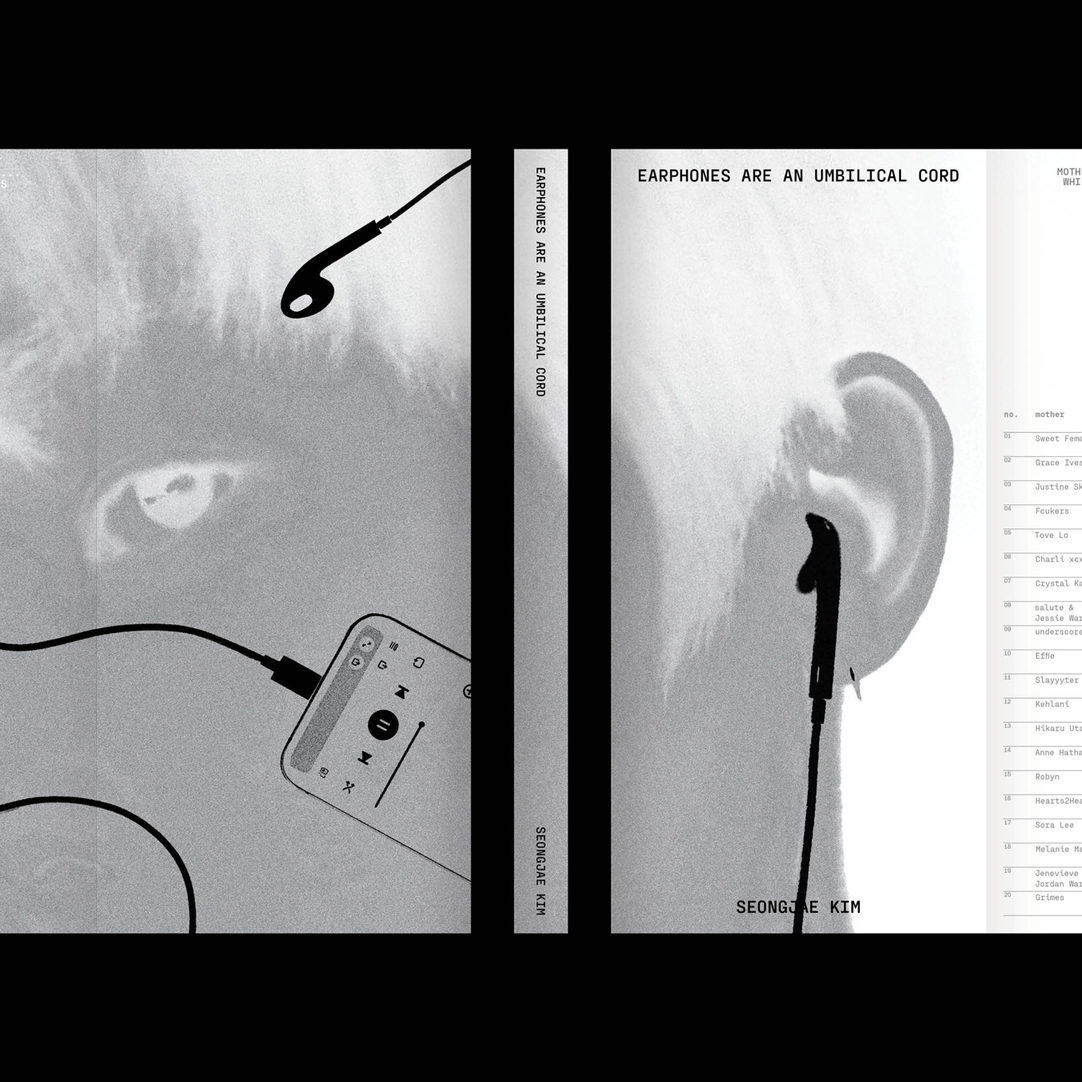
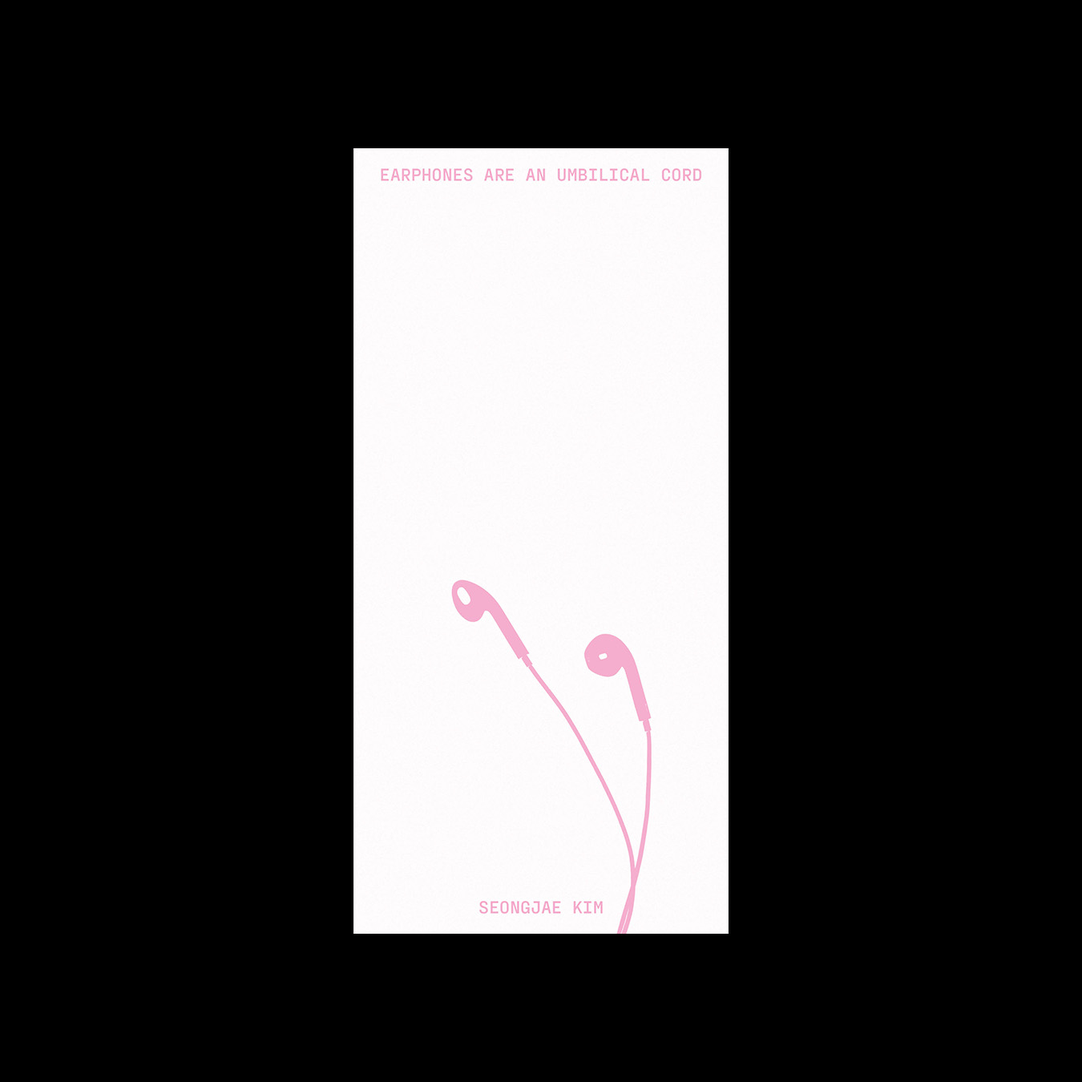
Content updates: remove 김시현 video link, fix 조서영 English name, replace 김성재 gallery photo + thumbnail

diff --git a/js/landing.js b/js/landing.js
@@ -18,7 +18,7 @@ const DATA = [
   { name:"백단하", A:"사거리", B:"갤러리", thumb:"p07.jpg", poster:"danha_poster.jpg", en:"Danha Baek", koTitle:"사거리는 갤러리다", enSentence:"The crossroads is a gallery", insta:"@badookdol", descKo:"와우산로와 홍익로가 교차하는 사거리를 하나의 갤러리로 재해석한다. 이동을 멈추고 무언가 응시하게 되는 신호 대기 시간을 작품 감상의 순간으로 바라보고, 화이트 큐브의 문법을 차용해 일상의 풍경을 관람 대상으로 전환한다. 관람자는 현실의 사거리와 가상의 갤러리가 교차하는 영상 속에서 자신의 실루엣을 마주하며, 신호를 기다리는 행위가 전시를 관람하는 태도와 크게 다르지 않음을 경험한다.", descEn:"This work reimagines the intersection of Wausan-ro and Hongik-ro as a gallery. It turns the brief pause at a traffic light into a moment of looking, borrowing the language of the white cube to frame an everyday street scene as an exhibition. In the video, the real crossroads and a virtual gallery alternate at regular intervals, allowing viewers to encounter their own silhouettes and experience waiting as a form of viewing." , videoUrl:"https://www.youtube.com/watch?v=e1wry2fPNIo" , images:["assets/images/06_danha/01.jpg", "assets/images/06_danha/02.jpg", "assets/images/06_danha/03.jpg", "assets/images/06_danha/04.jpg"] },
   { name:"이린", A:"슬립오버", B:"고해성사", thumb:"p08.jpg", poster:"lynn_poster.jpg", en:"Lynn Lee", koTitle:"슬립오버는 고해성사다", enSentence:"Sleepover is confession", insta:"@llnnnyl", descKo:"일상적 놀이 문화인 슬립오버와 종교적 의례인 고해성사가 갖는 행위적 유사성에 주목해, 비밀을 고백하는 공간을 재구성한다. 작업은 어린 시절 이불을 엮어 만들던 임시적 은신처의 형태를 빌린다. 구조물 내부에는 어둡고 낮은 조도를 가진 조명을 배치해 외부와 내부 공간을 분리했으며, 이는 사적인 대화와 고백이 이루어지도록 한다. 중앙에 설치된 고해소의 가림막을 연상시키는 얇은 천은 드러냄과 숨김, 친밀감과 거리감 사이의 긴장을 시각화한다. 또한 소녀들의 웃음소리와 성당의 종소리를 병치한 사운드를 공간에 삽입해, 두 가지 분위기가 공존하는 양가적 감각을 형성했다. 이를 통해 작업은 어린 시절의 놀이 공간과 종교적 고백의 장소가 모두 비밀을 공유함으로써 관계를 형성하는 구조를 가진다는 점을 탐색한다.", descEn:"Noting the behavioral similarities between sleepovers—a common form of play—and the religious rite of confession, this work has reconfigured a space for confessing secrets. The work borrows the form of the makeshift hideouts we used to create by weaving blankets together as children. Inside the structure, dim lighting was installed to separate the interior from the exterior, facilitating private conversations and confessions. A thin cloth installed in the center, reminiscent of the screen in a confessional booth, visualizes the tension between revelation and concealment, intimacy and distance. Furthermore, a soundscape juxtaposing the laughter of young girls with the tolling of church bells is incorporated into the space, creating an ambivalent atmosphere where two distinct moods coexist. Through this, the work explores how both childhood play spaces and places of religious confession share a structure in which relationships are formed through the sharing of secrets." , images:["assets/images/07_rin/01.jpg", "assets/images/07_rin/02.jpg", "assets/images/07_rin/03.jpg", "assets/images/07_rin/04.jpg", "assets/images/07_rin/05.jpg"] },
   { name:"황철호", A:"커팅매트", B:"해시계", thumb:"p09.jpg", poster:"cheolho_poster.jpg", en:"Cheolho Hwang", koTitle:"커팅매트는 해시계다", enSentence:"Cutting mat is a sundial", insta:"@s_fe_ho", descKo:"우리 주변엔 다양한 그리드가 있지만, 정확한 수치가 담긴 건 커팅매트가 거의 유일하다. 이 프로젝트는 그 재단용 그리드를 다른 의미로 바라본다. 태양과 그림자로 시간을 읽는 해시계처럼, 커팅매트 위의 선들도 그림자를 통해 시간을 보여줄 수 있다는 상상에서 출발한다.", descEn:"There are many kinds of grids around us, but the cutting mat is almost the only one marked with precise measurements. This project reinterprets that utilitarian grid through a different lens. Inspired by the way a sundial tells time through sunlight and shadow, it imagines that the lines on a cutting mat, too, can reveal time through the movement of shadows." , images:["assets/images/08_cheolho/01.jpg", "assets/images/08_cheolho/02.jpg", "assets/images/08_cheolho/03.jpg", "assets/images/08_cheolho/04.jpg"] },
-  { name:"조서영", A:"세탁소", B:"화원", thumb:"p10.jpg", poster:"seoyoung_poster.png", en:"Seoyoung Jo", koTitle:"세탁소는 화원(花園)이다", enSentence:"A laundry is a flower shop", insta:"@choseoyoungcho", descKo:"세탁소 스팀의 고소한 향기, 은은한 섬유유연제 향기, 보글보글 거품, 알록달록 봉제실 더미, 정성스레 세탁되어 다려진 후 비닐에 포장된 옷다발들. 조랭이 세탁소이자 화원은 옷다발 포장 및 배달서비스를 진행한다.", descEn:"The toasty aroma of laundry steam, the subtle scent of fabric softener, bubbles, piles of colorful sewing threads, and bundles of clothes; meticulously washed, pressed, and wrapped. Joreng Laundry / Flowershop offers Laundry bouquet packaging and delivery services." , images:["assets/images/09_seoyoung/01.jpg", "assets/images/09_seoyoung/02.jpg", "assets/images/09_seoyoung/03.jpg", "assets/images/09_seoyoung/04.jpg", "assets/images/09_seoyoung/05.jpg"] },
+  { name:"조서영", A:"세탁소", B:"화원", thumb:"p10.jpg", poster:"seoyoung_poster.png", en:"Seoyoung Cho", koTitle:"세탁소는 화원(花園)이다", enSentence:"A laundry is a flower shop", insta:"@choseoyoungcho", descKo:"세탁소 스팀의 고소한 향기, 은은한 섬유유연제 향기, 보글보글 거품, 알록달록 봉제실 더미, 정성스레 세탁되어 다려진 후 비닐에 포장된 옷다발들. 조랭이 세탁소이자 화원은 옷다발 포장 및 배달서비스를 진행한다.", descEn:"The toasty aroma of laundry steam, the subtle scent of fabric softener, bubbles, piles of colorful sewing threads, and bundles of clothes; meticulously washed, pressed, and wrapped. Joreng Laundry / Flowershop offers Laundry bouquet packaging and delivery services." , images:["assets/images/09_seoyoung/01.jpg", "assets/images/09_seoyoung/02.jpg", "assets/images/09_seoyoung/03.jpg", "assets/images/09_seoyoung/04.jpg", "assets/images/09_seoyoung/05.jpg"] },
   { name:"정지은", A:"스텔레토 힐", B:"은닉무기", thumb:"p11.jpg", poster:"jieun_poster.png", en:"Jieun Jung", koTitle:"스틸레토 힐은 은닉무기다", enSentence:"Stiletto Heels Are Concealed Weapons", insta:"@stopsilver02", descKo:"스틸레토 힐은 상대에게 매력을 어필하기 위한 패션 아이템으로 받아들여지지만, 그 뾰족한 형태와 가느다란 굽, 또각거리는 소리는 은밀하게 강한 공격성과 긴장감을 내포하고 있다. 이 힐은 여성성을 수동적인 매력의 대상으로 남길 것인지, 혹은 능동적인 선택과 공격으로 전환할 것인지에 대한 은밀한 초대장을 건넨다.", descEn:"Stiletto heels are commonly accepted as fashion items used to attract others, yet their pointed form, narrow structure, and sharp clicking sound quietly carry a strong sense of aggression and tension. They present a subtle invitation: whether to remain as passive objects of attraction or to shift toward active choice and attack." , videoUrl:"https://youtu.be/XjEOv2aOZJU" , images:["assets/images/10_jieun/01.jpg", "assets/images/10_jieun/02.jpg", "assets/images/10_jieun/03.jpg"] },
   { name:"김규빈", A:"라바콘", B:"만병통치약", thumb:"p12.jpg", poster:"gyubin_poster.png", en:"Gyubin Kim", koTitle:"라바콘은 만병통치약이다", enSentence:"Trust the Cone", insta:"@streetpessimist", descKo:"싱크홀, 균열, 함몰, 침수, 사고 현장, 공사 중 건물 주변, 가스 누출, 상하수도 공사, 전선 공사, 나무 식재, 조경 공사, 고장난 자전거, 미세먼지, 두통, 치통, 풀리지 않는 과제, 폭력과 불안과 공포 치료에 탁월합니다.", descEn:"Highly effective in treating sinkholes, cracks, subsidence, flooding, accident sites, areas surrounding buildings under construction, gas leaks, water and sewage construction, electrical wiring work, tree planting, landscaping construction, broken bicycles, fine dust, headaches, toothaches, unsolvable assignments, and violence, anxiety, and fear." , videoUrl:"https://vimeo.com/1189596398?share=copy&fl=sv&fe=ci" , images:["assets/images/11_gyubin/01.jpg", "assets/images/11_gyubin/02.jpg", "assets/images/11_gyubin/03.jpg", "assets/images/11_gyubin/04.jpg", "assets/images/11_gyubin/05.jpg"] },
   { name:"강다현", A:"만두", B:"암살자", thumb:"p13.jpg", poster:"dahyun_poster.png", en:"Dahyun Kang", koTitle:"만두는 암살자다", enSentence:"The Dumpling Is an Assassin", insta:"@true1xver", descKo:"입안에서 터지는 뜨거운 육즙, 딱딱한 표면, 예상치 못한 더부룩함과 갈증. 얇은 피로 위장한 만두는 내부를 감춘 채, 당신의 구강과 위장으로 은밀하게 침투한다. 찌기, 굽기, 튀기기 등의 수련을 거친 만두들은 각기 다른 발동 기술을 익히며, 끝내 완전한 암살자적 주체로 거듭난다.", descEn:"Bursting hot broth, hardened surfaces, unexpected bloating and thirst. Concealed beneath thin skins, dumplings secretly infiltrate the body while hiding what lies within. Having endured the trials of steaming, grilling, and frying, they master their own methods of attack and ultimately emerge as fully formed assassins." , images:["assets/images/12_dahyun/01.jpg", "assets/images/12_dahyun/02.jpg", "assets/images/12_dahyun/03.jpg", "assets/images/12_dahyun/04.jpg", "assets/images/12_dahyun/05.jpg"] },
@@ -27,13 +27,13 @@ const DATA = [
   { name:"정우현", A:"지도", B:"시", thumb:"p16.jpg", poster:"woohyun_poster.jpg", en:"Woohyun Jung", koTitle:"지도는 시다", enSentence:"Maps are Poetry", insta:"@faux_hyun", descKo:"지도는 지구 표면의 일부나 전체의 상태를 약속된 기호나 문자를 사용하여 일정한 비율로 줄여 평면상에 나타낸 것이다. 시는 마음속에 떠오르는 느낌을 운율이 있는 언어로 압축하여 표현한 글이다. 지도의 기호는 시에서의 언어 압축과 동일하다. 지도는 기호 체계를 이용하고, 시는 언어를 기호처럼 이용한다. 그렇기에 지도와 시는 함축적이고 상징적이다. 함축적이고 상징적이라는 말은 하나의 단위에 다양한 요소를 압축했다는 의미이다. 이로 인해 지도와 시의 기호와 언어 단위는 밀도가 높아지지만, 모든 요소를 수용할 수는 없기에 불완전하다.", descEn:"A map is a planar representation of the Earth's surface, in whole or in part, scaled down to a specific ratio using designated symbols and characters. A poem expresses the emotions of the mind by compressing them into rhythmic language. The symbols of a map are identical to the linguistic compression of a poem. A map relies on a system of symbols, while a poem uses language itself as a symbol. Therefore, both maps and poems are inherently connotative and symbolic. Being connotative and symbolic means that diverse elements are condensed into a single unit. Consequently, the symbolic and linguistic units of maps and poems achieve a high degree of density, yet they remain fundamentally incomplete because they cannot encompass every single element." , images:["assets/images/15_woohyun/01.jpg", "assets/images/15_woohyun/02.jpg", "assets/images/15_woohyun/03.jpg", "assets/images/15_woohyun/04.jpg", "assets/images/15_woohyun/05.jpg"] },
   { name:"김주현", A:"스케이트보드", B:"스캐너", thumb:"p17.jpg", poster:"juhyun_poster.png", en:"Juhyun Kim", koTitle:"스케이트보드는 스캐너이다", enSentence:"Skateboard is a Scanner", insta:"@3_jhn_3", descKo:"길 위의 단차와 요철, 마찰과 흔들림은 도로가 지닌 정보가 되며, 보드는 길 위를 주행하며 이를 몸의 움직임으로 변환한다. 『Skateboard is a Scanner』는 19개의 바닥 이미지와 스캔된 기록을 통해, 보드를 타고 길을 읽는 감각을 전달한다.", descEn:"The differences in level, uneven textures, friction, and vibrations of the road become information held by its surface, and as the board moves across it, it translates them into bodily movement. 『Skateboard is a Scanner』 conveys the sensation of reading the road through a board, through 19 images of ground surfaces and scanned records." , images:["assets/images/16_juhyun/01.jpg", "assets/images/16_juhyun/02.jpg", "assets/images/16_juhyun/03.jpg", "assets/images/16_juhyun/04.jpg", "assets/images/16_juhyun/05.jpg"] },
   { name:"양정원", A:"눈", B:"포장지", thumb:"p18.jpg", poster:"jungwon_poster.jpg", en:"Jungwon Yang", koTitle:"눈은 포장지다", enSentence:"SNOW IS WRAPPING PAPER", insta:"@moeraek", descKo:"눈은 세상을 선물처럼 포장한다. 패키지 디자인은 대상을 보호하는 기능을 넘어 첫인상과 인식을 형성한다. 재질과 질감, 여는 방식까지 포함된 경험은 대상에 대한 기대를 감정으로 이어지게 한다. 본 카탈로그는 자연이 시공한 가장 완전한 포장 사례를 기록한 도면집이다. 모든 시공은 사전 협의 없이 이루어졌으며, 일정 이후 사라진 뒤 매년 다른 방식으로 다시 포장된다.", descEn:"Snow wraps the world like a gift. Packaging design goes beyond protection, shaping first impressions and perception. Material, texture, and even the way something opens become part of the experience, turning expectation into emotion. This catalog documents nature's most complete examples of packaging. Every construction was carried out without prior agreement, disappears after a certain period of time, and returns each year wrapped in a different way." , images:["assets/images/17_jungwon/01.jpg", "assets/images/17_jungwon/02.jpg", "assets/images/17_jungwon/03.jpg", "assets/images/17_jungwon/04.jpg", "assets/images/17_jungwon/05.jpg"] },
-  { name:"김성재", A:"이어폰", B:"탯줄", thumb:"p19.jpg", poster:"seongjae_poster.jpg", en:"Seongjae Kim", koTitle:"이어폰은 탯줄이다", enSentence:"EARPHONES ARE AN UMBILICAL CORD", insta:"@infth", descKo:"여성 아티스트는 어머니다. 청취자는 태아다. 음악은 영양분이다. 이어폰은 탯줄이다.", descEn:"FEMALE ARTISTS ARE MOTHERS. LISTENERS ARE FETUSES. MUSIC IS NOURISHMENT. EARPHONES ARE AN UMBILICAL CORD." , images:["assets/images/18_seongjae/1.jpg", "assets/images/18_seongjae/2.jpg", "assets/images/18_seongjae/3.jpg", "assets/images/18_seongjae/4.jpg", "assets/images/18_seongjae/5.jpg", "assets/images/18_seongjae/6.gif"] },
+  { name:"김성재", A:"이어폰", B:"탯줄", thumb:"p19.jpg", poster:"seongjae_poster.jpg", en:"Seongjae Kim", koTitle:"이어폰은 탯줄이다", enSentence:"EARPHONES ARE AN UMBILICAL CORD", insta:"@infth", descKo:"여성 아티스트는 어머니다. 청취자는 태아다. 음악은 영양분이다. 이어폰은 탯줄이다.", descEn:"FEMALE ARTISTS ARE MOTHERS. LISTENERS ARE FETUSES. MUSIC IS NOURISHMENT. EARPHONES ARE AN UMBILICAL CORD." , images:["assets/images/18_seongjae/1.jpg", "assets/images/18_seongjae/6.gif"] },
   { name:"현지우", A:"약봉투", B:"어드밴트 캘린더", thumb:"p20.jpg", poster:"jiwoo_poster.jpg", en:"Jiwoo Hyun", koTitle:"약봉투는 어드밴트 캘린더다", enSentence:"A Medicine Packet is an Advent Calendar", insta:"@youngcha.xyz", descKo:"매일 정해진 시간에 약봉투를 뜯으며 회복을 기다린 적이 있는가. 이 작품은 그 기다림의 형태를 빌려, 세계 각지에서 치유와 회복을 상징해 온 기호들을 24개의 약봉투 안에 담은 어드벤트 캘린더다. 약 대신 부적을, 처방 대신 믿음을 복용해보자.", descEn:"Here is a medicine packet. Have you ever torn it open at a set time each day, waiting to get better? This work borrows that form of waiting — an advent calendar of 24 medicine packets, each holding a symbol of healing and recovery from around the world. Instead of medicine, a talisman. Instead of a prescription, belief." , images:["assets/images/19_jiwoo/01.png", "assets/images/19_jiwoo/02.png", "assets/images/19_jiwoo/03.png", "assets/images/19_jiwoo/04.png", "assets/images/19_jiwoo/05.png"] },
   { name:"오성건", A:"책", B:"죄수", thumb:"p21.jpg", poster:"sunggun_poster.jpg", en:"Sunggun Oh", koTitle:"책은 죄수다", enSentence:"Book as Prisoner", insta:"@goshitomi", descKo:"책 대출신청은 죄수와의 면회신청이다. 〈책은 죄수다〉는 책이 책장에 꽂혀있는 모습이 마치 죄수와 같다는 발견에서 출발한다. 이것은 도서관의 '도서 대출' 시스템과 교도소의 '죄수 접견' 시스템이 구조적으로 동일하다는 통찰로 이어진다. 작품 안에서 도서의 정보(메타데이터)는 죄수의 정보로 치환된다. 관람자가 평소처럼 책을 검색하고 빌리는 과정을 밟는 동안, 분할된 화면 반댓편에서는 낯선 죄수와의 면회 신청이 동시에 이루어진다. 이를 통해 우리가 지식을 소비하고 관리하는 '보관소(Archive)'라는 시스템이 사실은 정보를 가두고 통제하는 또 다른 '감옥'은 아닌지 질문을 던진다.", descEn:"Lending a book is visiting the prisoner. It began with the observation that books standing on a bookshelf closely resemble prisoners in cells. This leads to the insight that a library's book lending system shares the exact same structural design as a prison's visitation system. Within the work, a book's metadata is substituted with a prisoner's personal records. While the viewer goes through the ordinary process of searching for and borrowing a book, a request to visit an unfamiliar prisoner simultaneously takes place on the other side of a split screen. Through this, the work questions whether the \"archive\"—the very system through which we consume and manage knowledge—is in fact another form of \"prison\" that confines and controls information." , images:["assets/images/20_sunggun/01.png", "assets/images/20_sunggun/02.png", "assets/images/20_sunggun/03.png"] },
   { name:"양의열", A:"벌금 고지서", B:"러브레터", thumb:"p22.png", poster:"euiyeol_poster.png", en:"Euiyeol Yang", koTitle:"벌금 고지서는 러브레터다", enSentence:"Penalty notice of love letter", insta:"@eui.10", descKo:"예상치 못한 고지서는 마치 러브레터와 같다. 우리의 심장을 떨리게 하고, 동시에 지난 기억을 상기시켜주는 매개체가 된다. 그리고 대체로 완벽하게 잊혀지기 전에 나타나서는 우리를 당황시킨다. 이들은 희미했던 기억들을 선명하게 해주는 대신에, 우리의 기억들이 얼마나 선택적으로 미화되어왔는지 보여준다.", descEn:"Unexpected bills are like love letters. They make our hearts race, while serving as a medium that reminds us of past memories. And they usually appear right before they are completely forgotten, catching us off guard. Instead of bringing those faded memories back into focus, they reveal just how selectively romanticized our memories have been." , images:["assets/images/21_euiyeol/01.jpg", "assets/images/21_euiyeol/02.jpg", "assets/images/21_euiyeol/03.jpg", "assets/images/21_euiyeol/04.jpg", "assets/images/21_euiyeol/05.jpg"] },
   { name:"황지원", A:"마침표", B:"골", thumb:"p23.jpg", poster:"hjiwon_poster.png", en:"Jiwon Hwang", koTitle:"마침표는 골이다", enSentence:"Period is a Goal", insta:"@now_iz_", descKo:"이 시계는 물리적 흐름으로서의 시간을 계측하는 대신, 미결의 문장이 마침표와 조우하여 완결성에 이르는 찰나를 하나의 '득점(+1)'으로 환산하는 개념적 장치이다. 궤적 끝에서 공이 골망을 흔들듯, 문장의 끝에 마침표가 오는 것은 텍스트의 유예된 상태를 종결짓는 멈춤(Full Stop)인 동시에 다음 스텝을 예비하는 주기(Period)의 전환을 표상한다.", descEn:"Rather than measuring time as a physical flow, this clock is a conceptual device that translates the exact moment an unresolved sentence meets a period and achieves completion into a single 'score (+1).' Much like a ball striking the net at the end of its trajectory, the arrival of a period at the end of a sentence signifies a 'Full Stop' that resolves the text's suspended state, while simultaneously representing the transition of a 'Period' that prepares for the next step." , images:["assets/images/22_hjiwon/01.jpg", "assets/images/22_hjiwon/02.jpg", "assets/images/22_hjiwon/03.jpg", "assets/images/22_hjiwon/04.jpg"] },
   { name:"최주혁", A:"쓰레기통", B:"자유게시판", thumb:"최주혁_thumbnail.png", poster:"juhyuk_poster.jpg", en:"Juhyuk Choi", koTitle:"쓰레기통은 자유게시판이다", enSentence:"Bin = Board", insta:"@onemoogy", descKo:"이곳에는 무엇이든 자유롭게 두고 갈 수 있다. 쓰레기통도 그렇고, 자유게시판도 그렇다. 웬만한 게시판에는 넣을 수조차 없는 것을 쓰레기통에는 넣을 수 있으니, 쓰레기통이야말로 진정한 자유게시판이 아닐까?", descEn:"Anything can be freely left here. The same goes for trash bins and bulletin boards. If something cannot even be placed on most bulletin boards but can be thrown into a trash bin, then perhaps the trash bin is the truest form of a free bulletin board." , images:["assets/images/23_juhyuk/01.jpg", "assets/images/23_juhyuk/02.jpg", "assets/images/23_juhyuk/03.jpg", "assets/images/23_juhyuk/04.jpg", "assets/images/23_juhyuk/05.jpg", "assets/images/23_juhyuk/06.jpg", "assets/images/23_juhyuk/07.jpg", "assets/images/23_juhyuk/08.jpg", "assets/images/23_juhyuk/09.jpg", "assets/images/23_juhyuk/10.png"] },
-  { name:"김시현", A:"레이빙", B:"굿", thumb:"p24.jpg", poster:"sihyun_poster.jpg", en:"Sihyun Kim", koTitle:"레이빙은 굿이다", enSentence:"Raving is a Ritual", insta:"@siihyunkim", descKo:"레이빙은 굿이다. 리듬은 속도를 올리고, 몸은 그 흐름에 반응하며, 우리는 집단 속에서 경계를 흐리게 한다. 이러한 구조는 감각을 통해 몰입을 만들어낸다는 점에서 전통적인 의식과 닮아 있으며, 동시에 현실을 버틸 수 있게 해주는 하나의 방식이 되기도 한다. 어쩌면 우리는 이미 하나의 의식에 참여하고 있는 것인지도 모른다.", descEn:"Raving is a ritual. Rhythm intensifies, the body follows, and the distinction between the individual and the collective begins to dissolve. Through sound, movement, and repetition, raving produces a state of sensory immersion that echoes traditional ritual forms. It offers not an escape from reality, but a way of moving through it. Perhaps we are already participating in the ritual." , videoUrl:"https://siihyunkim.github.io/Raving_is_a_Ritual/" , images:["assets/images/24_sihyun/05.gif", "assets/images/24_sihyun/02.jpg", "assets/images/24_sihyun/03.jpg", "assets/images/24_sihyun/04.jpg"] },
+  { name:"김시현", A:"레이빙", B:"굿", thumb:"p24.jpg", poster:"sihyun_poster.jpg", en:"Sihyun Kim", koTitle:"레이빙은 굿이다", enSentence:"Raving is a Ritual", insta:"@siihyunkim", descKo:"레이빙은 굿이다. 리듬은 속도를 올리고, 몸은 그 흐름에 반응하며, 우리는 집단 속에서 경계를 흐리게 한다. 이러한 구조는 감각을 통해 몰입을 만들어낸다는 점에서 전통적인 의식과 닮아 있으며, 동시에 현실을 버틸 수 있게 해주는 하나의 방식이 되기도 한다. 어쩌면 우리는 이미 하나의 의식에 참여하고 있는 것인지도 모른다.", descEn:"Raving is a ritual. Rhythm intensifies, the body follows, and the distinction between the individual and the collective begins to dissolve. Through sound, movement, and repetition, raving produces a state of sensory immersion that echoes traditional ritual forms. It offers not an escape from reality, but a way of moving through it. Perhaps we are already participating in the ritual." , images:["assets/images/24_sihyun/05.gif", "assets/images/24_sihyun/02.jpg", "assets/images/24_sihyun/03.jpg", "assets/images/24_sihyun/04.jpg"] },
   { name:"김세은", A:"스크린샷", B:"소매치기", thumb:"p25.jpg", poster:"seeun_poster.png", en:"Seeun Kim", koTitle:"스크린샷은 소매치기다", enSentence:"A Screenshot is a Pickpocket", insta:"@kimseeunse", descKo:"『스크린샷은 소매치기다』는 스크린샷이라는 동시대의 무의식적 동작을 절취의 메타포로 연결짓는다. Capture–Crop–Possess–Circulate–Accumulate–Residue의 여섯 단계를 따라, 스크린샷이 원본의 맥락을 잘라내고 사적인 소유물로 전환되는 과정, 이미지가 네트워크 위에서 이동하고 변형되는 방식, 그리고 갤러리 속 수천 장의 파편이 쌓여가는지를 짚는다. 일상적이고 익숙한 행위를 천천히 낯설게 만들며, 화면 너머의 세계를 우리가 발 딛고 감각하는 현실과 다르지 않은 하나의 연속된 풍경으로 바라본다.", descEn:"The Screenshot Is a Pickpocket connects the contemporary, almost unconscious gesture of taking a screenshot to the metaphor of theft. Following six stages—Capture, Crop, Possess, Circulate, Accumulate, and Residue—the work traces how a screenshot severs an image from its original context and transforms it into a privately owned object, how images move and mutate across networks, and how thousands of fragments accumulate in our galleries. By gradually making this ordinary and familiar action feel strange, the work considers the world beyond the screen as part of a continuous landscape, no different from the physical reality we inhabit and perceive." , images:["assets/images/25_seeun/01.png", "assets/images/25_seeun/02.png", "assets/images/25_seeun/03.png"] },
   { name:"XU NING", A:"페퍼민트 캔디", B:"국제 통용 화폐", thumb:"p26.jpg", poster:"xuning_poster.png", en:"Xu Ning", koTitle:"페퍼민트 캔디는 국제 통용 화폐이다", enSentence:"Peppermint candy is an internationally currency", insta:"@lola1o1a", descKo:"누구에게든 페퍼민트 캔디 한 알을 건네면 거절하는 사람은 없습니다. 친구, 동료, 방금 만난 사람, 말이 통하지 않는 낯선 사람조차도요. 왜 주는지 설명할 필요 없고, 보답을 바랄 필요도 없습니다. 어떤 법정 화폐도 이렇게 할 수 없습니다. 달러를 거부하는 사람, 비트코인을 믿지 않는 사람이 있어도, 페퍼민트 캔디를 거부하는 사람은 없습니다.", descEn:"No one refuses a piece of peppermint candy, no matter who you offer it to. Friends, coworkers, someone you just met, even a stranger who doesn't speak your language. You don't need to explain why you're giving it, and you don't need anything in return. No legal tender can do this. Some people refuse dollars, some don't trust Bitcoin, but no one refuses peppermint candy." , images:["assets/images/26_xuning/01.jpg", "assets/images/26_xuning/02.jpg", "assets/images/26_xuning/03.jpg", "assets/images/26_xuning/04.jpg"] },
 ];
